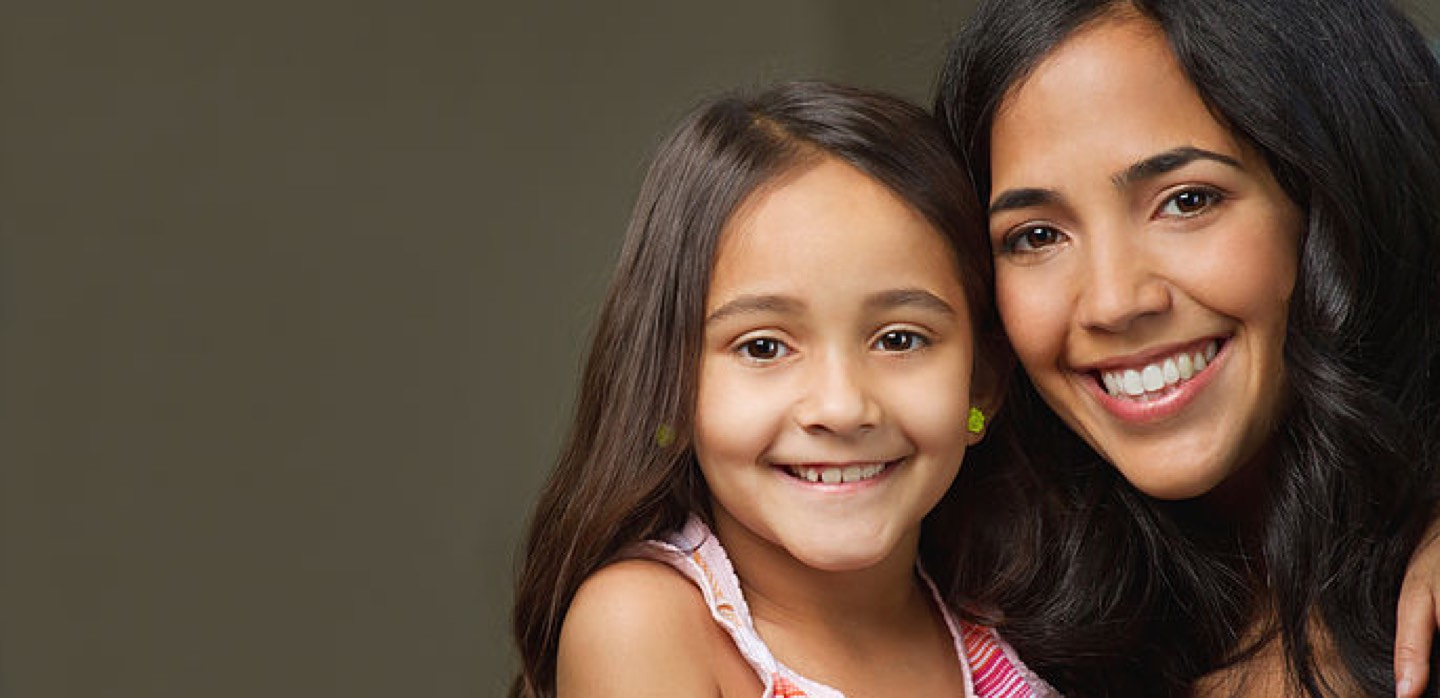
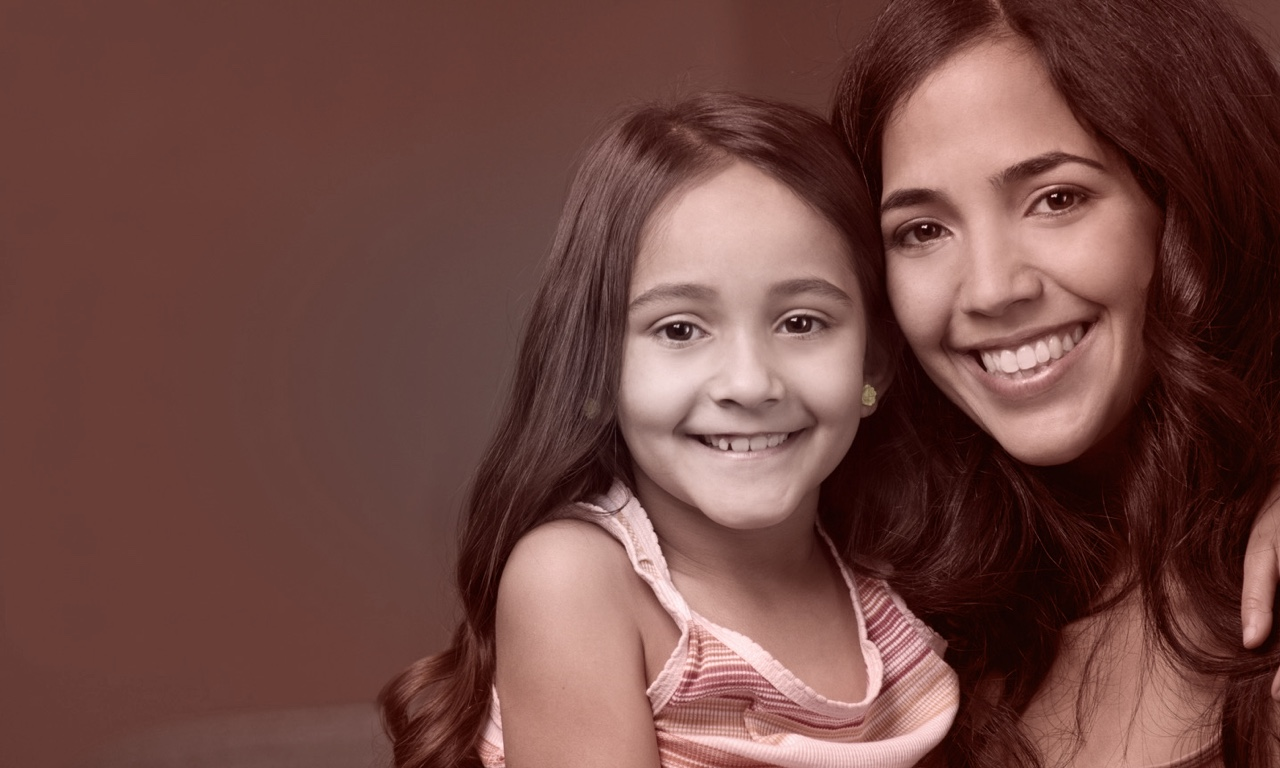
Faltantes de colores

diff --git a/web/webassets/css/donativos-site.css b/web/webassets/css/donativos-site.css
@@ -3,14 +3,19 @@ body{
 }
 
 .container,
-.container-full{
+.container-full,
+.container-gracias{
     background-color: rgba(217,38,44,.3);
+    background-color: transparent;
 }
 
 .container{
     /*min-height: 100%;*/
     padding-top: 90px;
     height: auto;
+}
+.container-gracias{
+    min-height: 100%;
 }
 
 .not-absolute{
@@ -29,6 +34,7 @@ body{
 
 .modal-ticket-op-tc {
     position: fixed;
+    bottom: 0;
     top: 0;
     /* left: 50%; */
     display: block;
@@ -43,7 +49,6 @@ body{
     /* overflow: hidden; */
     margin-bottom: 50px;
     left: 0;
-    bottom: 0;
     right: 0;
 }
 
@@ -242,7 +247,7 @@ body{
     margin: 80px 0 60px;
 }
 .donativos-wrapper .tipos-de-pago-content .tipos-de-pago{
-    background-color: rgba(69,21,24,.6);
+    background-color: rgba(69,21,24,.8);
     max-width: 90%;
     padding: 30px 40px;
     width: auto;
@@ -364,7 +369,7 @@ body{
 
 /* checkbox */
 .donativos-wrapper .donativos-content .tarjetas-wrapper .tarjeta .check {
-    /*margin: 0.5rem;*/
+    margin-top: 26px;
 }
 
 .donativos-wrapper .donativos-content .tarjetas-wrapper .tarjeta .check__item {
@@ -425,7 +430,7 @@ body{
 }
 
 .donativos-wrapper .donativos-content .custom-amount-wrapper{
-    background-color: rgba(69,21,24,.6);
+    background-color: rgba(69,21,24,.8);
     height: auto;
     margin-top: 80px;
     padding: 30px 0 60px;
@@ -482,7 +487,7 @@ body{
 }
 .boletos-content .boletos-int{
     align-items: center;
-    background-color: rgba(69,21,24,.6);
+    background-color: rgba(69,21,24,.8);
     display: flex;
     flex-direction: column;
     justify-content: center;
@@ -512,7 +517,7 @@ body{
 .mis-donaciones-content{
     align-items: center;
     padding-bottom: 60px;
-    background-color: rgba(217,38,44,.3);
+    /* background-color: rgba(217,38,44,.3); */
     display: flex;
     flex-direction: column;
     height: 100%;

diff --git a/views/site/index.php b/views/site/index.php
@@ -26,9 +26,11 @@ $this->registerJsFile(
             $url = "//site/guardar-orden?monto=".$plan->num_cantidad;
           } 
           ?>
-          <?= Html::beginForm([$url], 'post') ?>
           
+
           <div class="tarjeta">
+
+            <?= Html::beginForm([$url], 'post') ?>
 
             <div class="tarjeta-int">
               
@@ -54,8 +56,10 @@ $this->registerJsFile(
               </div>
             </div>
 
+            <?= Html::endForm() ?>
+
           </div>
-          <?= Html::endForm() ?>
+          
 
         <?php
         }

diff --git a/views/site/gracias.php b/views/site/gracias.php
@@ -3,7 +3,7 @@ use yii\helpers\Url;
 ?>
 
 <!-- <a href="<?=Url::base()?>" class="btn btn-success btn-boletos">Inicio</a> -->
-<div class="container container-full">
+<div class="container container-full container-gracias">
 	<div class="boletos-content">
 		
 		<div class="boletos-int">
